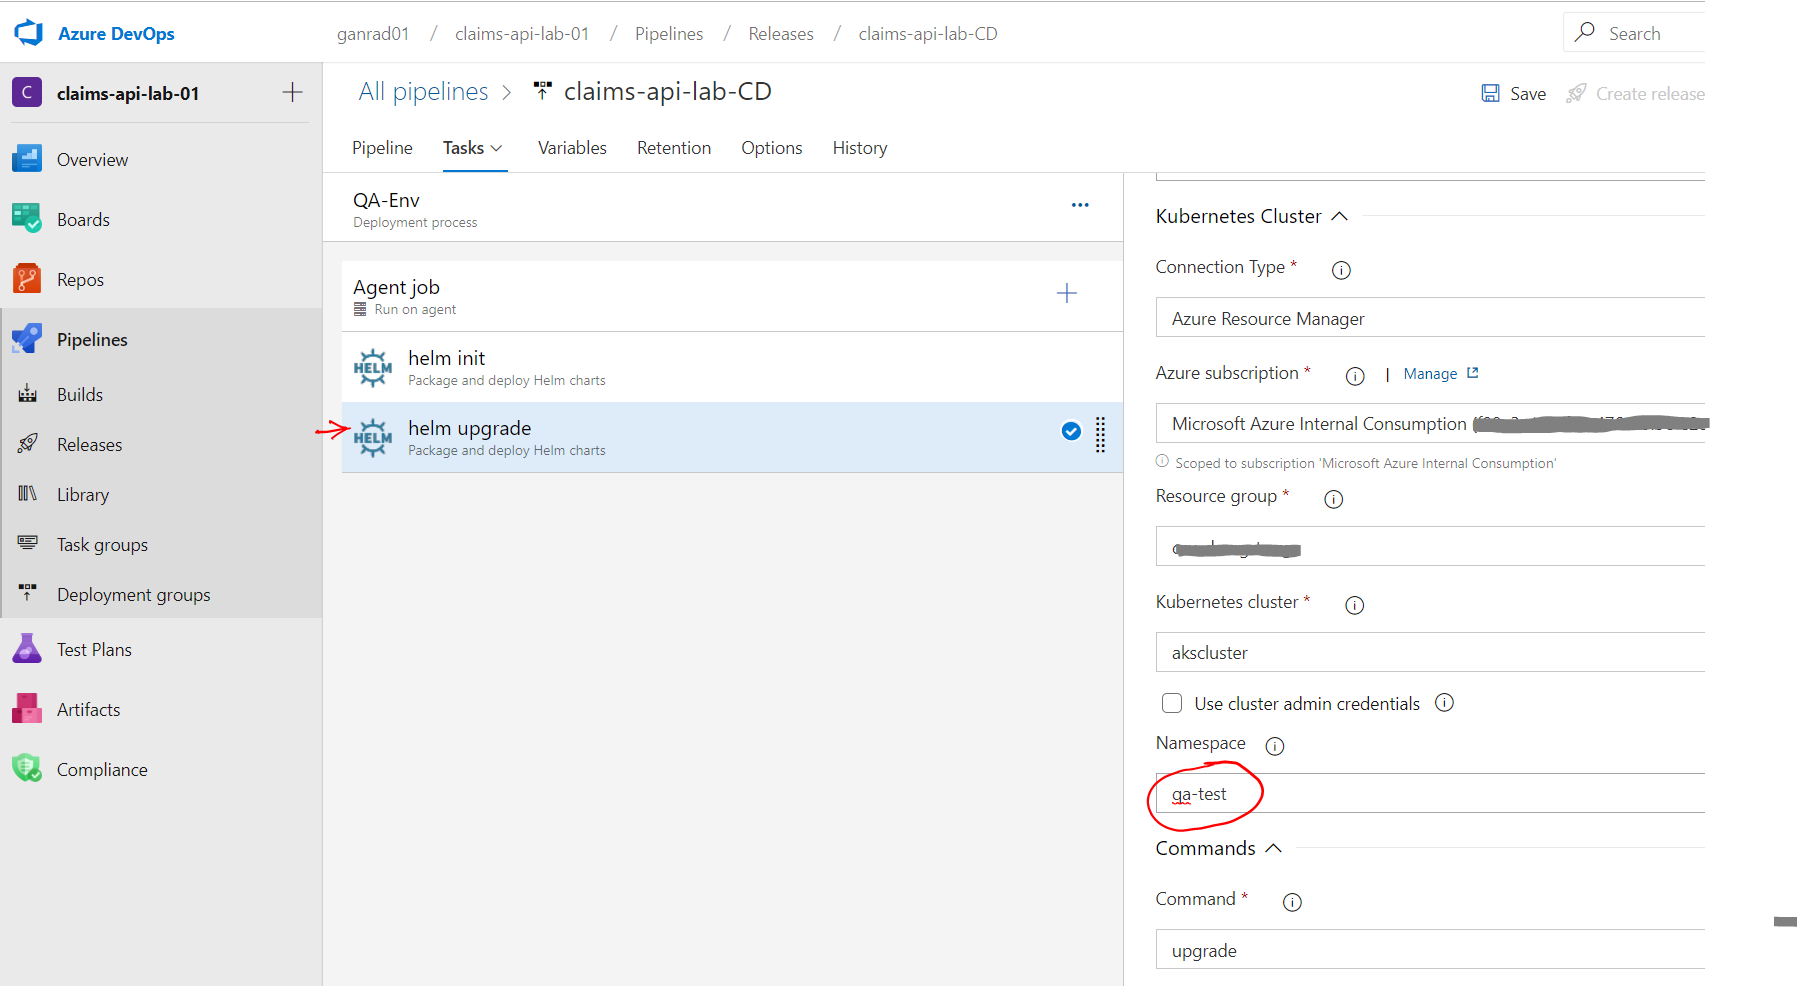
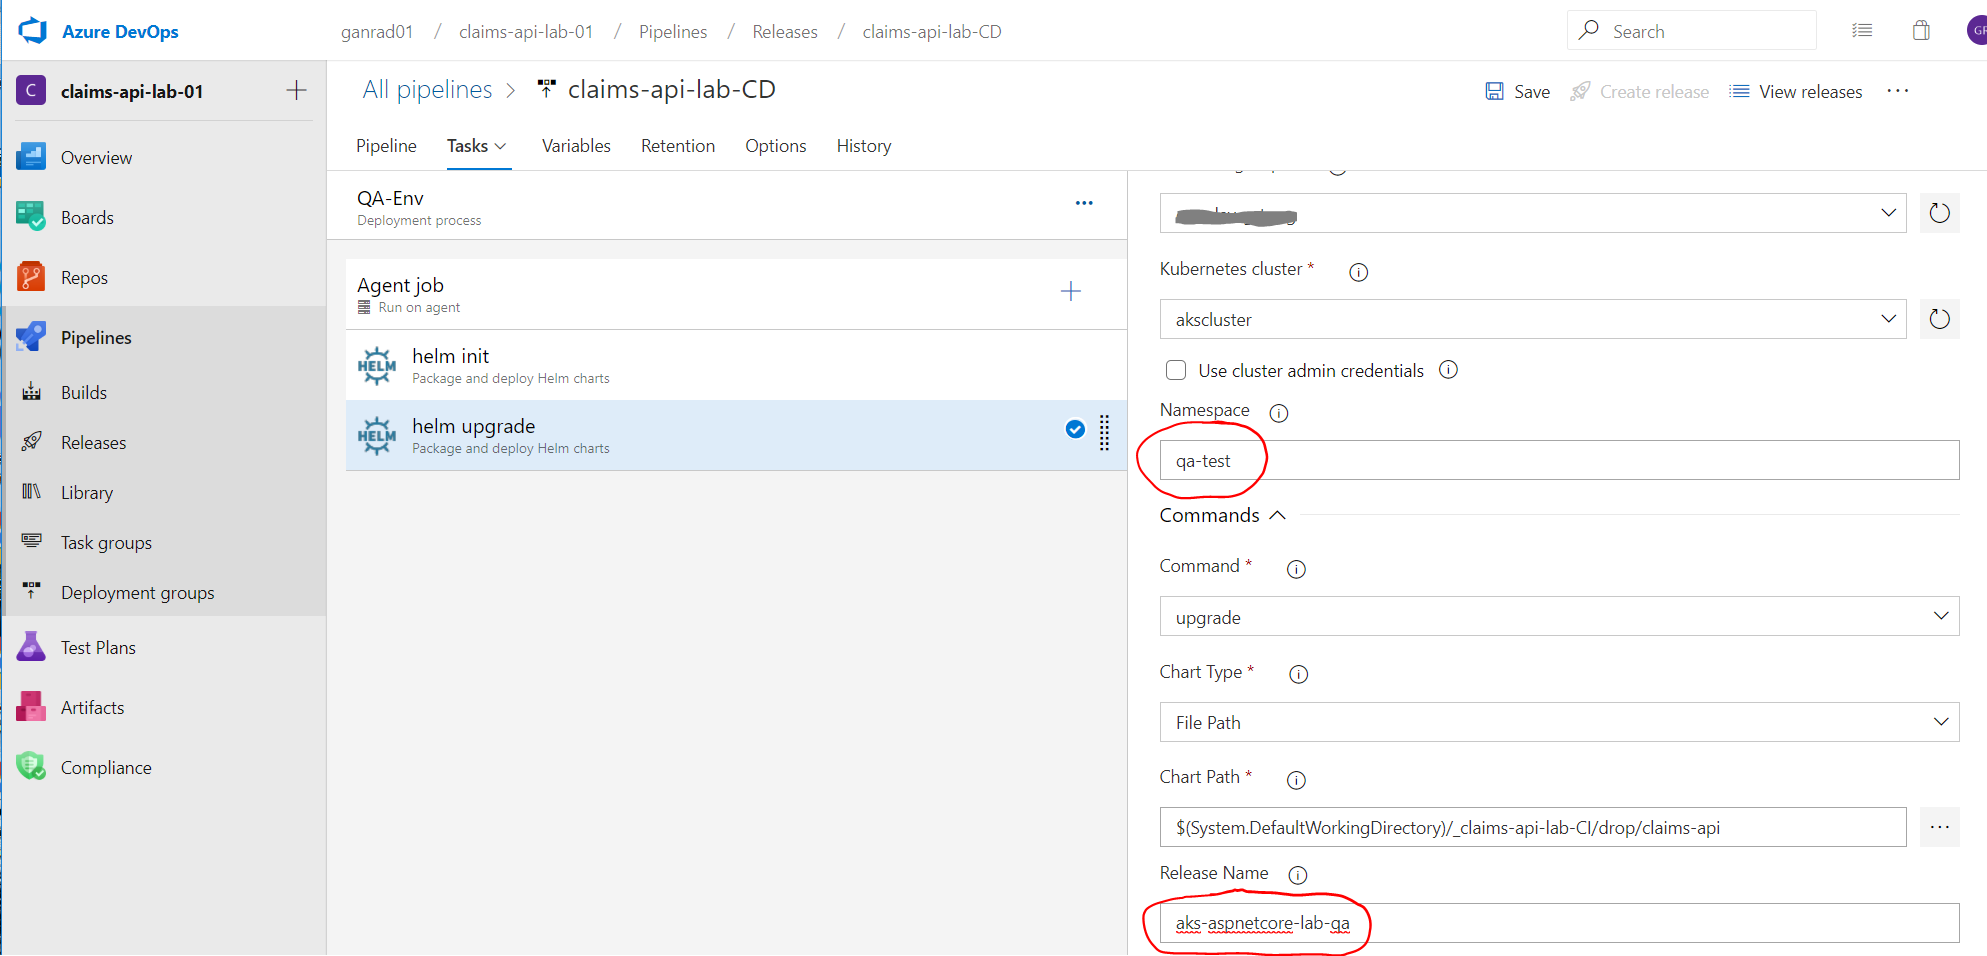
Updated section H in Readme doc

diff --git a/README.md b/README.md
@@ -840,7 +840,7 @@ In the next section, we will define a *Release Pipeline* in Azure DevOps to auto
 
     ![alt tag](./images/H-29.PNG)
 
-    Click on **helm upgrade** task and change the Kubernetes **Namespace** to **qa-test** as shown in the figure below. Leave all other field values as is.
+    Click on **helm upgrade** task.  Change the Kubernetes **Namespace** to **qa-test** and the Helm **Release Name** to **aks-aspnetcore-lab-qa** as shown in the screenshot below. Leave all other field values as is.
 
     ![alt tag](./images/H-30.PNG)
 
